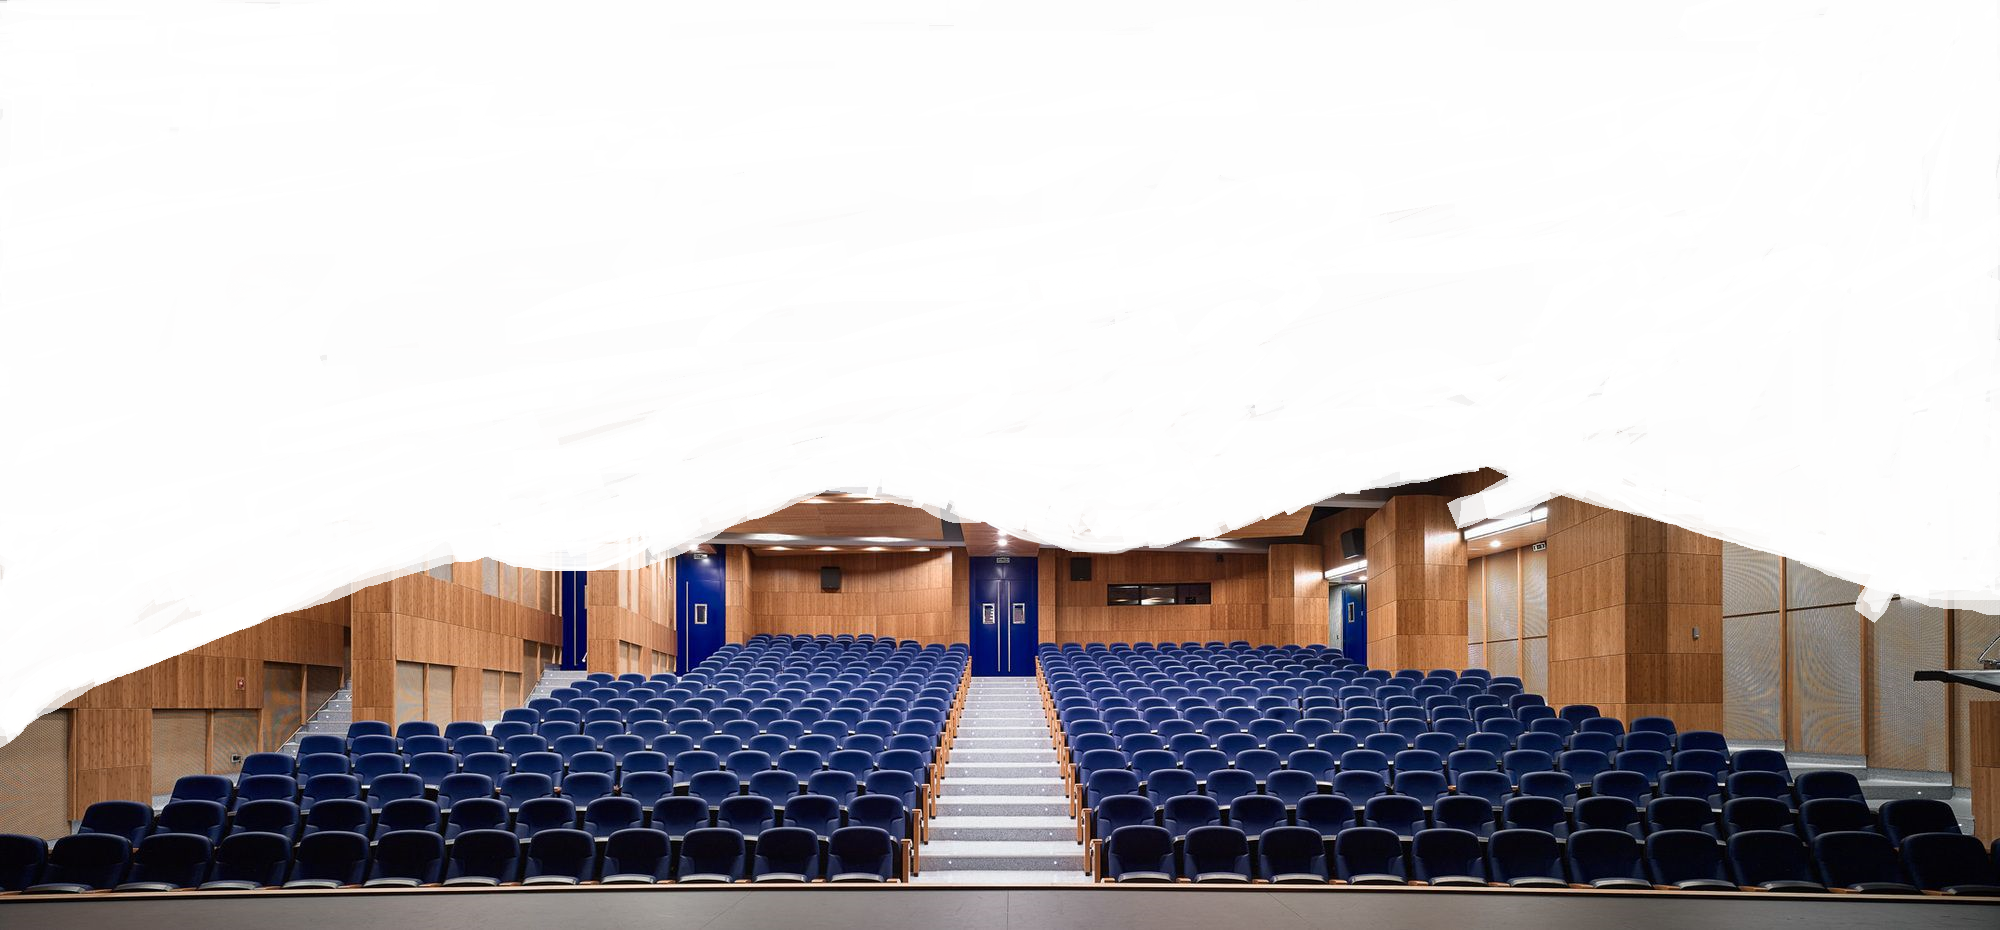
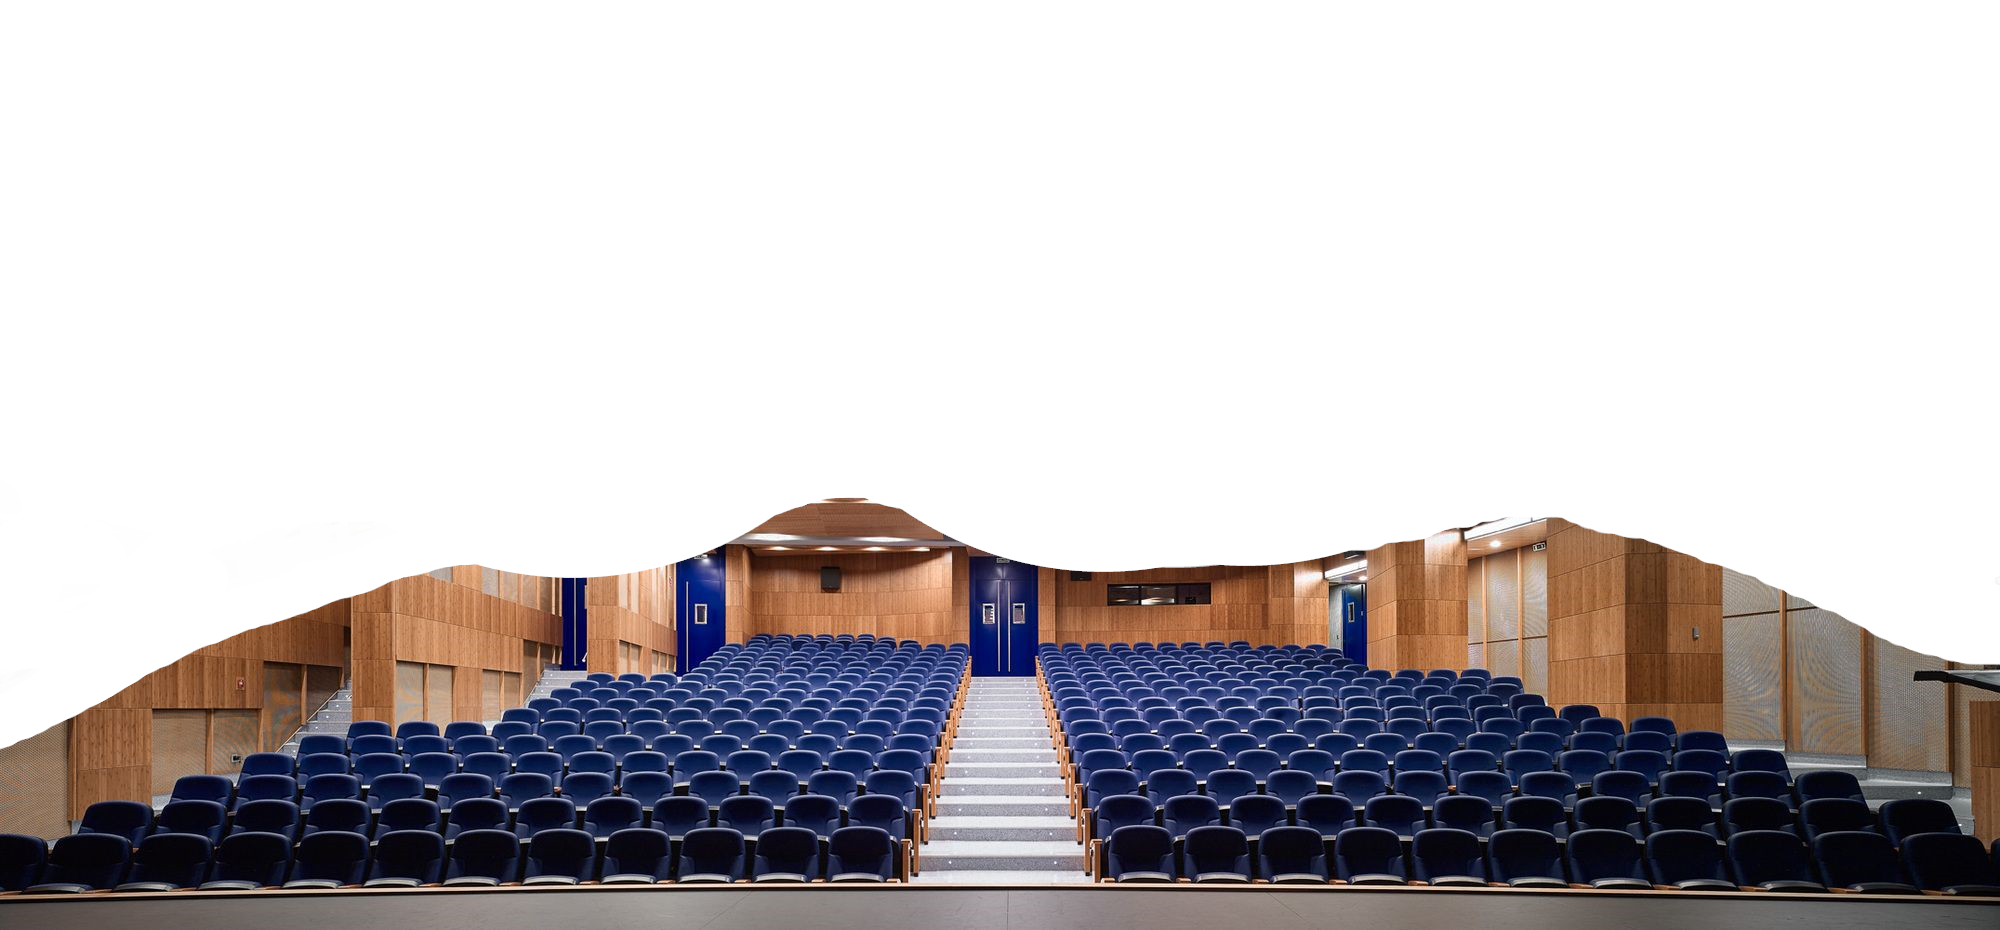
cambiofondoinicio

diff --git a/css/Style.css b/css/Style.css
@@ -174,7 +174,7 @@ p{
 
 /* --------------- Site title ---------------- */
 main .site-title{
-    background: url('../assets/Blog-post/Salon-de-actos.jpg');
+    background: url('../assets/salon.png');
     background-size: cover;
     height: 110vh;
     display: flex;
